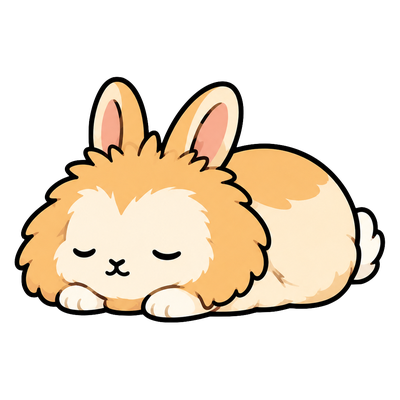
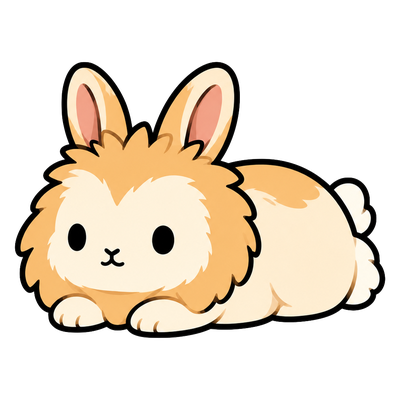
Meadow + rooms polish: staggered hops, scroll, drag, themed bedrooms, new accessories
- Only SITTING bunnies hop; laying/asleep stay still. Each hops on its own
  random cycle (no more unison).
- Meadow world widens as you collect, with horizontal scroll for more space.
- Drag-and-drop to move bunnies around (positions saved); tap still opens room.
- Bunny rooms are now themed bedrooms (Cozy/Forest/Candy/Sky/Night) with window,
  plant, lamp, rug, framed art - switchable per bunny.
- New accessories: Monocle, Top Hat, Tiara.
- Fixed Leo/Sunny duplication (Leo = Lionhead 1 pose; Sunny = orange lop 2 poses).
- Marathon intro text darkened for readability.

Changed region(s): [[0.03, 0.15, 0.96, 0.87], [0.36, 0.54, 0.45, 0.66]]

diff --git a/app.js b/app.js
@@ -76,6 +76,7 @@
       mode: "easy",    // "easy" | "hard"
       workouts: {},    // iso -> [{type, minutes, kcal}]
       strava: null,    // connection placeholder (null until wired up)
+      meadowPos: {},   // bunny id -> {left, bottom} percent of the meadow world (dragged)
     };
   }
   function migrate(s) {
@@ -86,6 +87,7 @@
       days: s.days || {}, collection: s.collection || {},
       accessories: s.accessories || [], toys: s.toys || [],
       mode: s.mode || "easy", workouts: s.workouts || {}, strava: s.strava || null,
+      meadowPos: s.meadowPos || {},
     });
   }
   function equipped(id) { return (S.collection[id] && S.collection[id].room && S.collection[id].room.accessory) || null; }
@@ -414,54 +416,100 @@
     for (let k = 0; k < id.length; k++) h = (h * 31 + id.charCodeAt(k)) >>> 0;
     return h % n;
   }
-  function meadowSpots(n) {
-    const spots = [];
-    const cols = 3;
-    for (let i = 0; i < n; i++) {
-      const row = Math.floor(i / cols);
-      const inRow = i % cols;
-      const jitterX = ((i * 37) % 11) - 5;
-      const jitterY = ((i * 53) % 9) - 4;
-      const left = 14 + inRow * 30 + (row % 2 ? 8 : 0) + jitterX;
-      const bottom = 6 + row * 20 + jitterY;
-      spots.push({ left, bottom, delay: ((i * 1.37) % 6).toFixed(2) });
-    }
-    return spots;
+  // default scatter across the WIDE world (percent), staggered so no rigid grid
+  function defaultSpot(i, n) {
+    const cols = Math.max(3, Math.ceil(n / 2.2));
+    const row = i % 3, col = Math.floor(i / 3);
+    const jx = ((i * 37) % 13) - 6, jy = ((i * 53) % 11) - 5;
+    return { left: clamp(6 + col * (86 / Math.max(1, cols - 1)) + jx, 3, 94), bottom: clamp(8 + row * 24 + jy, 4, 74) };
+  }
+  function spotFor(id, i, n) {
+    const p = S.meadowPos && S.meadowPos[id];
+    return p && typeof p.left === "number" ? p : defaultSpot(i, n);
   }
 
   SCREENS.meadow = function () {
     const ids = activeBunnies().sort((a, b) => (S.collection[b].count) - (S.collection[a].count));
     const bunnies = ids.map((id) => B.byId[id]).filter(Boolean);
-    const spots = meadowSpots(bunnies.length);
+    const n = bunnies.length;
     const ownedToys = (S.toys || []).filter((t) => B.TOY_BY_ID[t]);
-    const toySpots = [{ left: 8, bottom: 4 }, { left: 84, bottom: 8 }, { left: 46, bottom: 2 }, { left: 22, bottom: 22 }, { left: 70, bottom: 24 }, { left: 90, bottom: 40 }];
+    const toySpots = [{ left: 6, bottom: 5 }, { left: 90, bottom: 8 }, { left: 40, bottom: 3 }, { left: 20, bottom: 46 }, { left: 66, bottom: 50 }, { left: 96, bottom: 40 }];
     const hungry = S.mode === "hard" ? ids.filter((id) => hungerState(id) === "hungry").length : 0;
     const canFeedAll = hungry > 0 && S.clovers >= FEED_COST;
+    // world gets wider as you collect more, enabling horizontal scroll + room to roam
+    const worldW = Math.max(120, 60 + n * 12); // percent of the scene width
     return `
       <div class="meadow-scene">
         <div class="meadow-hud">
-          <button class="hud-count" data-settings="1">${B.CATALOG.filter((b)=>S.collection[b.id]).length}/${B.CATALOG.length} ${gearIco}</button>
+          <button class="hud-count" data-settings="1">${B.CATALOG.filter((b) => S.collection[b.id]).length}/${B.CATALOG.length} ${gearIco}</button>
           <button class="hud-shop" data-shop="1">${cloverIco} ${S.clovers} · Shop</button>
         </div>
-        <div class="sky"><span class="cloud c1"></span><span class="cloud c2"></span><span class="sun"></span></div>
-        <div class="hills"></div>
-        <div class="grass-field">
-          ${ownedToys.map((t, i) => { const s = toySpots[i % toySpots.length]; return `<div class="meadow-toy" style="left:${s.left}%;bottom:${s.bottom}%">${B.toySwatch(t, 56)}</div>`; }).join("")}
-          ${bunnies.length ? bunnies.map((b, i) => `
-            <div class="hopper" data-bunny="${b.id}" style="left:${spots[i].left}%;bottom:${spots[i].bottom}%;animation-delay:${spots[i].delay}s;z-index:${100 - Math.round(spots[i].bottom)}">
-              <div class="bunny-shadow"></div>
-              ${S.mode === "hard" && hungerState(b.id) === "hungry" ? '<div class="hungry-tag">hungry</div>' : ""}
-              <div class="hop">${B.render(b, 76, { accessory: equipped(b.id), pose: meadowPose(b.id, i) })}</div>
-            </div>`).join("")
-            : `<div class="meadow-empty">Your meadow is quiet.<br/>Log your day and bunnies will hop in.</div>`}
-          <span class="tuft t1"></span><span class="tuft t2"></span><span class="tuft t3"></span><span class="tuft t4"></span>
-          <span class="flower f1"></span><span class="flower f2"></span><span class="flower f3"></span>
+        <div class="meadow-scroll" id="meadow-scroll">
+          <div class="meadow-world" id="meadow-world" style="width:${worldW}%">
+            <div class="sky"><span class="cloud c1"></span><span class="cloud c2"></span><span class="sun"></span></div>
+            <div class="hills"></div>
+            <div class="grass-field">
+              ${ownedToys.map((t, i) => { const s = toySpots[i % toySpots.length]; return `<div class="meadow-toy" style="left:${s.left}%;bottom:${s.bottom}%">${B.toySwatch(t, 56)}</div>`; }).join("")}
+              ${n ? bunnies.map((b, i) => {
+                const pose = meadowPose(b.id, i);
+                const sp = spotFor(b.id, i, n);
+                const active = pose === 0; // only sitting bunnies hop (laying/asleep stay still)
+                const seed = hashId(b.id) + meadowSeed * 131 + i * 17;
+                const dur = (4.5 + (seed % 550) / 100).toFixed(2);  // 4.5-10s cycle, different per bunny
+                const delay = (-(seed % 800) / 100).toFixed(2);     // negative offset so they start out of phase
+                return `<div class="hopper" data-bunny="${b.id}" style="left:${sp.left}%;bottom:${sp.bottom}%;z-index:${100 - Math.round(sp.bottom)}">
+                  <div class="bunny-shadow ${active ? "" : "still"}"></div>
+                  ${S.mode === "hard" && hungerState(b.id) === "hungry" ? '<div class="hungry-tag">hungry</div>' : ""}
+                  <div class="hop ${active ? "hopping" : "still"}" style="${active ? `animation-duration:${dur}s;animation-delay:${delay}s` : ""}">${B.render(b, 76, { accessory: equipped(b.id), pose })}</div>
+                </div>`;
+              }).join("")
+                : `<div class="meadow-empty">Your meadow is quiet.<br/>Log your day and bunnies will hop in.</div>`}
+              <span class="tuft t1"></span><span class="tuft t2"></span><span class="tuft t3"></span><span class="tuft t4"></span>
+              <span class="flower f1"></span><span class="flower f2"></span><span class="flower f3"></span>
+            </div>
+          </div>
         </div>
         ${hungry ? `<button class="feed-all ${canFeedAll ? "" : "off"}" data-feedall="1">Feed ${hungry} hungry ${hungry === 1 ? "bunny" : "bunnies"} · ${cloverIco}${hungry * FEED_COST}</button>` : ""}
-        <div class="meadow-tip">Tap a bunny to visit their room</div>
+        <div class="meadow-tip">Tap a bunny to visit · drag to move · swipe for more space</div>
       </div>
     `;
   };
+  function hashId(id) { let h = 0; for (let k = 0; k < id.length; k++) h = (h * 31 + id.charCodeAt(k)) >>> 0; return h; }
+
+  // Drag bunnies around the meadow; a tap (no drag) opens the room.
+  function bindMeadowDrag() {
+    const world = $("#meadow-world"); if (!world) return;
+    view.querySelectorAll(".hopper").forEach((el) => {
+      const id = el.dataset.bunny;
+      let sx = null, sy = null, dragging = false, moved = false, pos = null;
+      el.style.touchAction = "none";
+      el.onpointerdown = (e) => {
+        sx = e.clientX; sy = e.clientY; dragging = false; moved = false; pos = null;
+        try { el.setPointerCapture(e.pointerId); } catch (_) {}
+      };
+      el.onpointermove = (e) => {
+        if (sx == null) return;
+        const dx = e.clientX - sx, dy = e.clientY - sy;
+        if (!dragging && Math.hypot(dx, dy) > 8) { dragging = true; el.classList.add("dragging"); }
+        if (dragging) {
+          moved = true;
+          const r = world.getBoundingClientRect();
+          const left = clamp((e.clientX - r.left) / r.width * 100, 2, 97);
+          const bottom = clamp((r.bottom - e.clientY) / r.height * 100, 2, 84);
+          el.style.left = left + "%"; el.style.bottom = bottom + "%"; el.style.zIndex = 300;
+          pos = { left, bottom };
+        }
+      };
+      const end = () => {
+        if (sx == null) return;
+        el.classList.remove("dragging");
+        if (moved && pos) { S.meadowPos[id] = pos; touch(); }
+        else if (!moved) { openRoom(id); }
+        sx = null; dragging = false;
+      };
+      el.onpointerup = end; el.onpointercancel = end;
+    });
+  }
 
   SCREENS.dex = function () {
     const order = ["legendary", "epic", "rare", "uncommon", "common"];
@@ -693,7 +741,7 @@
     const curWeek = (dayByISO(planToday()) || {}).week;
     return `
       <div class="card tint-lav">
-        <p class="tiny" style="margin:0">The optional marathon coaching plan built from the workbook. Borrow from it freely. Your own log lives on the <b>Today</b> and <b>Workouts</b> tabs.</p>
+        <p style="margin:0;color:var(--ink);font-size:0.92rem">The optional marathon coaching plan built from the workbook. Follow it if you like, or just borrow ideas. Your own daily log lives on the <b>Today</b> and <b>Workouts</b> tabs.</p>
       </div>
       <div class="card">
         <h2>Training calendar</h2>
@@ -847,17 +895,21 @@
     const have = S.collection[id];
     if (!have) return;
     if (!have.room) have.room = { accessory: null };
+    if (!have.room.theme) have.room.theme = "cozy";
     const rar = B.RARITY[b.rarity];
     const cur = have.room.accessory;
+    const theme = have.room.theme;
     const ownedAccs = B.ACCESSORIES.filter((a) => ownsAcc(a.id));
     render(); // keep meadow/dex fresh underneath
     $("#modal-root").innerHTML = `
       <div class="modal-scrim" id="room-scrim">
         <div class="room-card">
           <button class="room-close" id="room-close" aria-label="Close">${closeIco}</button>
-          <div class="room-scene">
+          <div class="room-scene bedroom theme-${theme}">
+            ${bedroomDecor()}
             <div class="room-bunny">${B.render(b, 150, { accessory: cur })}</div>
           </div>
+          <div class="theme-row">${ROOM_THEMES.map((t) => `<button class="theme-chip theme-${t.id} ${theme === t.id ? "sel" : ""}" data-theme="${t.id}" title="${t.name}"></button>`).join("")}</div>
           <div class="room-info">
             <h2>${esc(b.breed)}</h2>
             <div class="rar" style="background:${rar.color}33;color:${shade(rar.color)}">${rar.label}</div>
@@ -883,8 +935,24 @@
     });
     const fb = $("#modal-root").querySelector("[data-feed]");
     if (fb) fb.onclick = () => { if (feed(id)) { toast("Fed " + b.breed + " 🥬"); rerender(); } };
+    $("#modal-root").querySelectorAll("[data-theme]").forEach((el) => el.onclick = () => { have.room.theme = el.dataset.theme; touch(); rerender(); });
     const sh = $("#modal-root").querySelector("[data-shop]");
     if (sh) sh.onclick = () => openShop(id, "accessories");
+  }
+  const ROOM_THEMES = [
+    { id: "cozy", name: "Cozy" }, { id: "forest", name: "Forest" }, { id: "candy", name: "Candy" },
+    { id: "sky", name: "Sky" }, { id: "night", name: "Night" },
+  ];
+  function bedroomDecor() {
+    return `
+      <div class="rm-window"><i></i><i></i></div>
+      <div class="rm-frame"></div>
+      <div class="rm-shelf"><span></span><span></span></div>
+      <div class="rm-plant"><b class="pot"></b><b class="leaf a"></b><b class="leaf b"></b><b class="leaf c"></b></div>
+      <div class="rm-lamp"><b class="head"></b></div>
+      <div class="rm-rug"></div>
+      <div class="rm-bed"><b class="pillow"></b></div>
+    `;
   }
   function hungerBadge(id) {
     const st = hungerState(id);
@@ -980,8 +1048,9 @@
     });
     // open log
     const ol = view.querySelector("[data-open-log]"); if (ol) ol.onclick = () => openLog(viewISO);
-    // bunny tap -> open its room
-    view.querySelectorAll("[data-bunny]").forEach((el) => { if (el.dataset.bunny) el.onclick = () => openRoom(el.dataset.bunny); });
+    // bunny tap -> open its room (dex + today strip). Meadow hoppers use drag below.
+    view.querySelectorAll("[data-bunny]:not(.hopper)").forEach((el) => { if (el.dataset.bunny) el.onclick = () => openRoom(el.dataset.bunny); });
+    bindMeadowDrag();
     // shop button (meadow HUD)
     view.querySelectorAll("[data-shop]").forEach((el) => el.onclick = () => openShop(null));
     // simple route jumps (back buttons, week chip -> plan, etc.)

diff --git a/styles.css b/styles.css
@@ -411,10 +411,12 @@ body[data-route="meadow"] .app { padding-left: 0; padding-right: 0; padding-bott
   height: calc(100vh - 82px - env(safe-area-inset-bottom));
   min-height: 460px;
   border-radius: 0 0 var(--radius-lg) var(--radius-lg);
-  background: linear-gradient(#bfe6f6 0%, #cdeaf2 38%, #d7f0dc 39%, #c4e6ad 72%, #b2dc95 100%);
 }
-.meadow-hud { position: absolute; top: 0; left: 0; right: 0; z-index: 20; display: flex; justify-content: space-between; align-items: center; padding: calc(10px + env(safe-area-inset-top)) 14px 8px; }
-.hud-count { background: rgba(255,255,255,0.85); border-radius: 999px; padding: 6px 12px; font-size: 0.8rem; font-weight: 700; color: var(--ink); box-shadow: var(--shadow-soft); }
+.meadow-scroll { position: absolute; inset: 0; overflow-x: auto; overflow-y: hidden; -webkit-overflow-scrolling: touch; scrollbar-width: none; border-radius: inherit; }
+.meadow-scroll::-webkit-scrollbar { display: none; }
+.meadow-world { position: relative; height: 100%; min-width: 100%; background: linear-gradient(#bfe6f6 0%, #cdeaf2 38%, #d7f0dc 39%, #c4e6ad 72%, #b2dc95 100%); }
+.meadow-hud { position: absolute; top: 0; left: 0; right: 0; z-index: 20; display: flex; justify-content: space-between; align-items: center; padding: calc(10px + env(safe-area-inset-top)) 14px 8px; pointer-events: none; }
+.meadow-hud > * { pointer-events: auto; }
 .hud-shop { display: inline-flex; align-items: center; gap: 5px; background: #fff; border-radius: 999px; padding: 6px 12px; font-size: 0.82rem; font-weight: 700; color: var(--ink); box-shadow: var(--shadow-soft); }
 .sky { position: absolute; inset: 0 0 auto 0; height: 40%; }
 .sun { position: absolute; top: 12%; right: 16%; width: 46px; height: 46px; border-radius: 50%; background: radial-gradient(circle, #fff3bf, #ffe08a); box-shadow: 0 0 24px #ffe6a066; }
@@ -431,19 +433,23 @@ body[data-route="meadow"] .app { padding-left: 0; padding-right: 0; padding-bott
   radial-gradient(circle at 20% 90%, #a9d489 0 6px, transparent 7px),
   radial-gradient(circle at 70% 96%, #a9d489 0 6px, transparent 7px),
   radial-gradient(circle at 45% 84%, #b6dc96 0 5px, transparent 6px); opacity: 0.5; }
-.hopper { position: absolute; width: 76px; transform: translateX(-50%); }
-/* Mostly still, with one gentle hop every ~7s (staggered per bunny). */
-.hopper .hop { transform-origin: 50% 100%; animation: idlehop 7s ease-in-out infinite; will-change: transform; }
-.hopper .bunny-shadow { position: absolute; left: 50%; bottom: 2px; width: 46px; height: 11px; margin-left: -23px; background: rgba(60,90,50,0.2); border-radius: 50%; animation: idleshadow 7s ease-in-out infinite; }
+.hopper { position: absolute; width: 76px; transform: translateX(-50%); cursor: grab; touch-action: none; }
+.hopper.dragging { cursor: grabbing; }
+.hopper.dragging .hop { animation: none !important; transform: scale(1.1); }
+/* Only SITTING bunnies hop, each on its own random cycle (duration+delay set inline). */
+.hopper .hop { transform-origin: 50% 100%; will-change: transform; }
+.hopper .hop.hopping { animation-name: idlehop; animation-timing-function: ease-in-out; animation-iteration-count: infinite; }
+.hopper .hop.still { animation: none; }
+.hopper .bunny-shadow { position: absolute; left: 50%; bottom: 2px; width: 46px; height: 11px; margin-left: -23px; background: rgba(60,90,50,0.2); border-radius: 50%; }
+.hopper .bunny-shadow.still { opacity: 0.26; }
 @keyframes idlehop {
-  0%, 82% { transform: translateY(0) scaleX(1) scaleY(1); }
-  85% { transform: translateY(0) scaleX(1.07) scaleY(0.9); }
-  90% { transform: translateY(-22%) scaleX(0.95) scaleY(1.07); }
-  95% { transform: translateY(0) scaleX(1.07) scaleY(0.9); }
+  0%, 84% { transform: translateY(0) scaleX(1) scaleY(1); }
+  87% { transform: translateY(0) scaleX(1.08) scaleY(0.88); }
+  92% { transform: translateY(-24%) scaleX(0.94) scaleY(1.08); }
+  97% { transform: translateY(0) scaleX(1.08) scaleY(0.9); }
   100% { transform: translateY(0) scaleX(1) scaleY(1); }
 }
-@keyframes idleshadow { 0%, 82%, 100% { transform: scale(1); opacity: 0.3; } 90% { transform: scale(0.72); opacity: 0.16; } }
-@media (prefers-reduced-motion: reduce) { .hopper .hop, .hopper .bunny-shadow { animation: none; } }
+@media (prefers-reduced-motion: reduce) { .hopper .hop.hopping { animation: none; } }
 .meadow-empty { position: absolute; left: 50%; top: 40%; transform: translate(-50%,-50%); text-align: center; color: #4f7a58; font-weight: 700; width: 80%; }
 .meadow-tip { position: absolute; bottom: 8px; left: 0; right: 0; text-align: center; font-size: 0.75rem; color: #4f7a58; z-index: 5; }
 .tuft { position: absolute; width: 0; height: 0; }
@@ -457,13 +463,47 @@ body[data-route="meadow"] .app { padding-left: 0; padding-right: 0; padding-bott
 /* ---------- bunny room ---------- */
 .room-card { background: var(--card); border-radius: 26px; width: 100%; max-width: 360px; box-shadow: var(--shadow); overflow: hidden; position: relative; max-height: 88vh; display: flex; flex-direction: column; animation: pop 0.3s cubic-bezier(.2,1.3,.5,1); }
 .room-close, .shop-close-note { position: absolute; top: 12px; right: 12px; z-index: 5; background: rgba(255,255,255,0.8); border-radius: 50%; width: 32px; height: 32px; display: grid; place-items: center; color: var(--ink-soft); box-shadow: var(--shadow-soft); }
-.room-scene { height: 190px; display: grid; place-items: center; position: relative;
-  background:
-    radial-gradient(120% 70% at 50% 120%, #e7d3b8 0 60%, transparent 61%),
-    linear-gradient(#f3e6d2 0%, #f6ede0 55%, #e9d6bd 56%, #e2caac 100%); }
-.room-scene::before { content: ""; position: absolute; bottom: 18px; left: 50%; width: 130px; height: 30px; transform: translateX(-50%); background: #d9b98f; border-radius: 50%; opacity: 0.6; }
-.room-scene .room-window { position: absolute; top: 18px; left: 22px; width: 54px; height: 46px; border-radius: 8px; background: linear-gradient(#bfe6f6, #d7f0dc); border: 3px solid #caa982; }
-.room-bunny { position: relative; z-index: 2; filter: drop-shadow(0 8px 10px rgba(120,90,60,0.2)); }
+/* ---------- themed bedroom ---------- */
+.room-scene.bedroom {
+  height: 216px; display: grid; place-items: end center; position: relative; overflow: hidden;
+  background: linear-gradient(to bottom, var(--wall, #f2e3cf) 0 60%, var(--floor, #e0c6a4) 60% 100%);
+}
+.theme-cozy { --wall: #f2e3cf; --floor: #e0c6a4; --accent: #f2a9c0; --sky1: #bfe6f6; --sky2: #dff0dc; --frame: #caa982; --wood: #c79a63; }
+.theme-forest { --wall: #dcefd9; --floor: #cbe0bf; --accent: #8fc472; --sky1: #cdeacb; --sky2: #a9d4a0; --frame: #8aa87e; --wood: #9a8a5e; }
+.theme-candy { --wall: #fbe0ec; --floor: #f6d0e0; --accent: #ef97b3; --sky1: #ffe0ef; --sky2: #ffd0e6; --frame: #e59ab8; --wood: #d99ab0; }
+.theme-sky { --wall: #dcecfa; --floor: #cfe0f2; --accent: #8fb7f2; --sky1: #bfe6f6; --sky2: #dff0fa; --frame: #9ab6d9; --wood: #9aa8c0; }
+.theme-night { --wall: #2e2a44; --floor: #3a3552; --accent: #c8b6ef; --sky1: #1c2140; --sky2: #2a2450; --frame: #4a4468; --wood: #45405e; }
+.theme-night .rm-window { box-shadow: inset 0 0 12px #ffe08a55; }
+.room-scene .rm-window { position: absolute; top: 20px; left: 22px; width: 58px; height: 50px; border-radius: 9px; background: linear-gradient(var(--sky1), var(--sky2)); border: 4px solid var(--frame); overflow: hidden; }
+.room-scene .rm-window i { position: absolute; background: var(--frame); }
+.room-scene .rm-window i:first-child { left: 50%; top: 0; bottom: 0; width: 3px; margin-left: -1.5px; }
+.room-scene .rm-window i:last-child { top: 50%; left: 0; right: 0; height: 3px; margin-top: -1.5px; }
+.theme-night .rm-window::after, .theme-sky .rm-window::before { content: ""; position: absolute; }
+.theme-night .rm-window::after { top: 8px; right: 8px; width: 14px; height: 14px; border-radius: 50%; background: #ffe9a8; box-shadow: -18px 6px 0 -5px #fff, -8px 20px 0 -6px #fff; }
+.room-scene .rm-frame { position: absolute; top: 26px; right: 26px; width: 34px; height: 28px; border-radius: 4px; background: var(--sky2); border: 4px solid var(--frame); }
+.room-scene .rm-frame::after { content: "🐰"; position: absolute; inset: 0; display: grid; place-items: center; font-size: 15px; }
+.room-scene .rm-shelf { position: absolute; top: 64px; right: 24px; width: 40px; height: 4px; background: var(--wood); border-radius: 2px; }
+.room-scene .rm-shelf span { position: absolute; bottom: 3px; width: 8px; height: 12px; border-radius: 2px; }
+.room-scene .rm-shelf span:first-child { left: 6px; background: var(--accent); }
+.room-scene .rm-shelf span:last-child { left: 20px; background: var(--sky1); height: 9px; }
+.room-scene .rm-plant { position: absolute; bottom: 4px; left: 14px; width: 26px; height: 44px; }
+.room-scene .rm-plant .pot { position: absolute; bottom: 0; left: 4px; width: 18px; height: 16px; background: var(--wood); border-radius: 3px 3px 6px 6px; }
+.room-scene .rm-plant .leaf { position: absolute; width: 12px; height: 20px; background: #8fc472; border-radius: 60% 60% 60% 60%/80% 80% 40% 40%; bottom: 12px; }
+.room-scene .rm-plant .leaf.a { left: 2px; transform: rotate(-24deg); }
+.room-scene .rm-plant .leaf.b { left: 8px; }
+.room-scene .rm-plant .leaf.c { left: 14px; transform: rotate(24deg); }
+.room-scene .rm-lamp { position: absolute; bottom: 4px; right: 16px; width: 4px; height: 62px; background: var(--wood); }
+.room-scene .rm-lamp .head { position: absolute; top: -8px; left: -10px; width: 24px; height: 14px; border-radius: 12px 12px 4px 4px; background: var(--accent); }
+.room-scene .rm-rug { position: absolute; bottom: 8px; left: 50%; width: 150px; height: 34px; transform: translateX(-50%); border-radius: 50%; background: radial-gradient(var(--accent) 0 40%, color-mix(in srgb, var(--accent) 60%, #fff) 41% 70%, var(--accent) 71%); opacity: 0.85; }
+.room-scene .rm-bed { position: absolute; bottom: 14px; left: 50%; width: 92px; height: 26px; transform: translateX(-50%); background: color-mix(in srgb, var(--accent) 55%, #fff); border-radius: 14px; }
+.room-scene .rm-bed .pillow { position: absolute; top: -6px; left: 10px; width: 26px; height: 14px; border-radius: 8px; background: #fff; }
+.room-bunny { position: relative; z-index: 3; margin-bottom: 12px; filter: drop-shadow(0 8px 10px rgba(120,90,60,0.22)); }
+.theme-row { display: flex; justify-content: center; gap: 8px; padding: 10px 0 2px; }
+.theme-chip { width: 26px; height: 26px; border-radius: 50%; border: 2px solid transparent; box-shadow: var(--shadow-soft); }
+.theme-chip.theme-cozy { background: #e0c6a4; } .theme-chip.theme-forest { background: #a9d4a0; }
+.theme-chip.theme-candy { background: #f6d0e0; } .theme-chip.theme-sky { background: #cfe0f2; }
+.theme-chip.theme-night { background: #3a3552; }
+.theme-chip.sel { border-color: var(--lavender-deep); transform: scale(1.12); }
 .room-info { text-align: center; padding: 12px 16px 4px; }
 .room-info h2 { margin-bottom: 4px; }
 .room-info .rar { font-size: 0.78rem; padding: 3px 12px; border-radius: 999px; display: inline-block; font-weight: 700; margin: 0 6px; }

diff --git a/bunnies.js b/bunnies.js
@@ -20,12 +20,12 @@
     { id: "marmalade", breed: "Thrianta", nick: "Marmalade", rarity: "uncommon", poses: 3 },
     { id: "frost", breed: "Himalayan", nick: "Frost", rarity: "uncommon", poses: 2 },
 
-    { id: "leo", breed: "Lionhead", nick: "Leo", rarity: "rare", poses: 2 },
+    { id: "leo", breed: "Lionhead", nick: "Leo", rarity: "rare", poses: 1 },
     { id: "cloud", breed: "Angora", nick: "Cloud", rarity: "rare", poses: 3 },
 
     { id: "patch", breed: "Harlequin", nick: "Patch", rarity: "epic", poses: 3 },
 
-    { id: "sunny", breed: "Fuzzy Lop", nick: "Sunny", rarity: "legendary", poses: 1 },
+    { id: "sunny", breed: "Fuzzy Lop", nick: "Sunny", rarity: "legendary", poses: 2 },
   ];
 
   const RARITY = {
@@ -56,6 +56,9 @@
     star: () => `<g transform="translate(50 48)"><path d="M0,-30 L9,-9 L31,-9 L13,5 L20,28 L0,14 L-20,28 L-13,5 L-31,-9 L-9,-9 Z" fill="#ffd76a" ${st(3.5)}/></g>`,
     bell: () => `<g transform="translate(50 48)"><path d="M-26,-2 Q0,16 26,-2 L22,10 Q0,22 -22,10 Z" fill="#ef97b3" ${st(3.5)}/><circle cx="0" cy="16" r="12" fill="#ffd76a" ${st(4)}/><circle cx="0" cy="18" r="3" fill="${OUT}"/></g>`,
     medal: () => `<g transform="translate(50 44)"><path d="M-14,-22 L-4,10 M14,-22 L4,10" stroke="#f2a9c0" stroke-width="6"/><circle cx="0" cy="20" r="18" fill="#ffd76a" ${st(4)}/><path d="M0,10 L3.5,17 L11,17 L5,22 L7,30 L0,25 L-7,30 L-5,22 L-11,17 L-3.5,17 Z" fill="#e9a93d"/></g>`,
+    monocle: () => `<g><circle cx="42" cy="54" r="17" fill="#ffffff" fill-opacity="0.25" ${st(5)}/><path d="M42,71 q-4,14 4,20" fill="none" ${st(3)}/></g>`,
+    tophat: () => `<g><ellipse cx="50" cy="60" rx="40" ry="9" fill="#3a3340" ${st(4)}/><rect x="28" y="14" width="44" height="46" rx="4" fill="#3a3340" ${st(4)}/><rect x="26" y="50" width="48" height="9" rx="4" fill="#c8b6ef" ${st(3)}/></g>`,
+    tiara: () => `<g transform="translate(50 52)"><path d="M-30,10 C-24,-8 -16,-8 -12,4 C-8,-14 8,-14 12,4 C16,-8 24,-8 30,10 Z" fill="#ffe08a" ${st(4)}/><circle cx="0" cy="-9" r="5" fill="#a9d4f0" ${st(3)}/><circle cx="-15" cy="2" r="3.5" fill="#f7b8d0" ${st(2.5)}/><circle cx="15" cy="2" r="3.5" fill="#f7b8d0" ${st(2.5)}/></g>`,
   };
   function accessorySwatch(id, size) {
     const dim = size ? ` width="${size}" height="${size}"` : "";
@@ -84,12 +87,15 @@
     { id: "scarf", name: "Cozy Scarf", cost: 40 },
     { id: "glasses", name: "Round Glasses", cost: 45 },
     { id: "star", name: "Star Clip", cost: 45 },
+    { id: "monocle", name: "Monocle", cost: 50 },
     { id: "bell", name: "Bell Collar", cost: 55 },
     { id: "sunglasses", name: "Sunglasses", cost: 60 },
     { id: "flowercrown", name: "Flower Crown", cost: 75 },
     { id: "headphones", name: "Headphones", cost: 80 },
     { id: "sunhat", name: "Sun Hat", cost: 90 },
     { id: "partyhat", name: "Party Hat", cost: 100 },
+    { id: "tophat", name: "Top Hat", cost: 120 },
+    { id: "tiara", name: "Tiara", cost: 150 },
     { id: "medal", name: "Gold Medal", cost: 140 },
     { id: "crown", name: "Royal Crown", cost: 200 },
   ];

diff --git a/sw.js b/sw.js
@@ -1,9 +1,9 @@
 /* Bunny Meadow service worker.
    Precache the app shell so it opens instantly and works offline once installed.
    Bump CACHE when files change so the new version replaces the old on next launch. */
-const CACHE = "bunny-meadow-v3";
+const CACHE = "bunny-meadow-v4";
 // breed -> pose count
-const BREEDS = { marshmallow: 3, domino: 3, biscuit: 3, pip: 3, acorn: 3, marmalade: 3, frost: 2, leo: 2, cloud: 3, patch: 3, sunny: 1 };
+const BREEDS = { marshmallow: 3, domino: 3, biscuit: 3, pip: 3, acorn: 3, marmalade: 3, frost: 2, leo: 1, cloud: 3, patch: 3, sunny: 2 };
 const IMGS = ["./bunnies/sleeping.png"];
 for (const b in BREEDS) for (let i = 0; i < BREEDS[b]; i++) IMGS.push(`./bunnies/${b}-${i}.png`);
 const SHELL = [